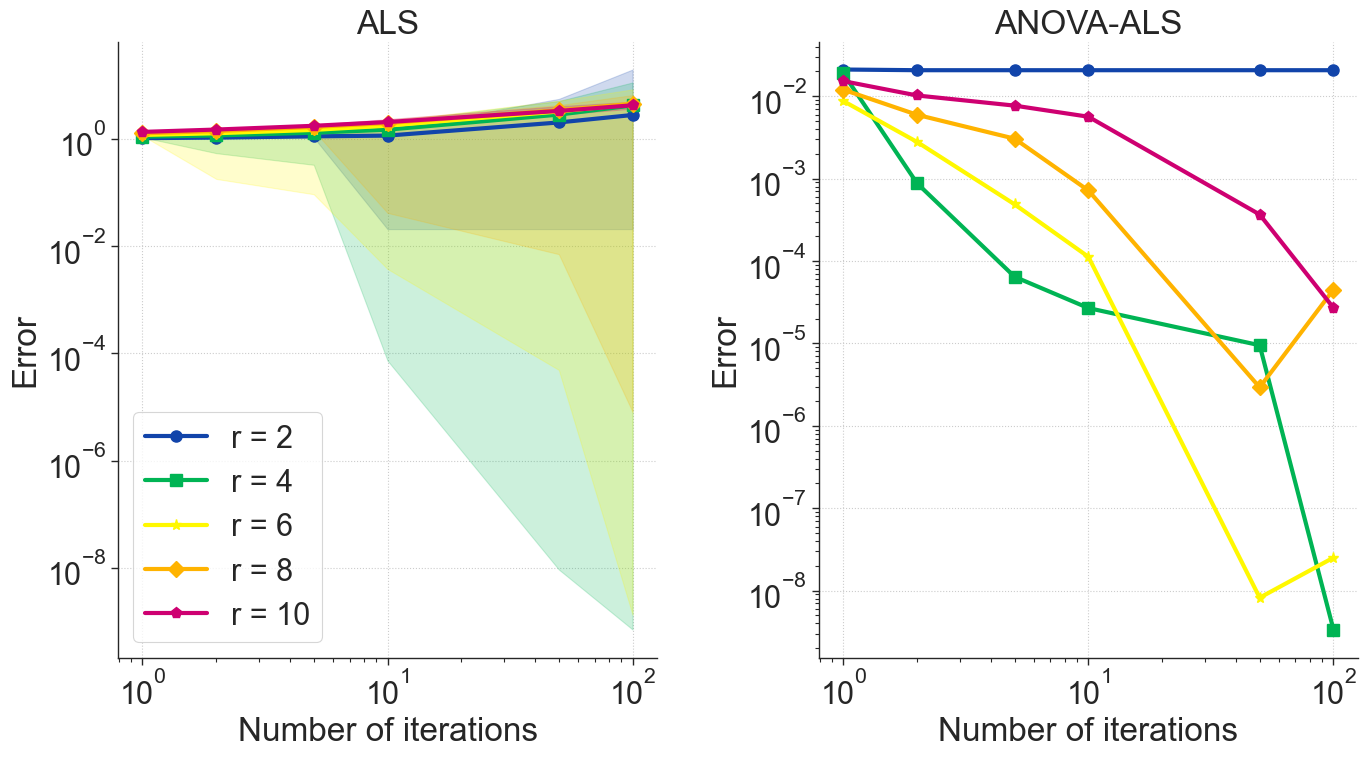
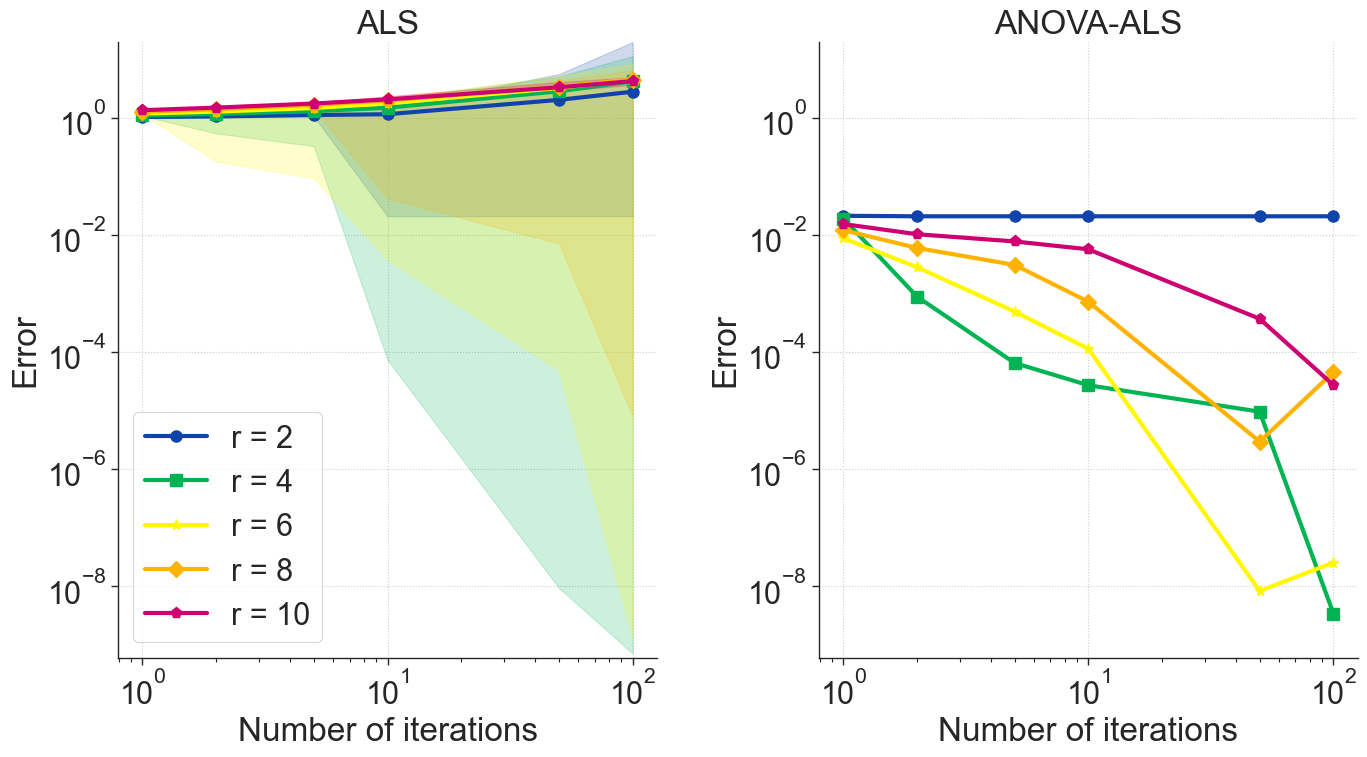
Some fixes for plots

diff --git a/plot.py b/plot.py
@@ -41,6 +41,16 @@ def plot_check(data, name, r_list=None, s_list=None, fpath=None):
     ax2.set_xlabel('Number of iterations')
     ax2.set_ylabel('Error')
 
+    if name == 'Dixon':
+        ax1.set_ylim(6.E-10, 2.E+1)
+        ax2.set_ylim(6.E-10, 2.E+1)
+    elif name == 'Piston':
+        ax1.set_ylim(1.E-3, 3.E+0)
+        ax2.set_ylim(1.E-3, 3.E+0)
+    elif name == 'PDE-VOI':
+        ax1.set_ylim(5.E-6, 3.E+0)
+        ax2.set_ylim(5.E-6, 3.E+0)
+
     for i, r in enumerate(r_list):
         label = f'r = {r}'
 
